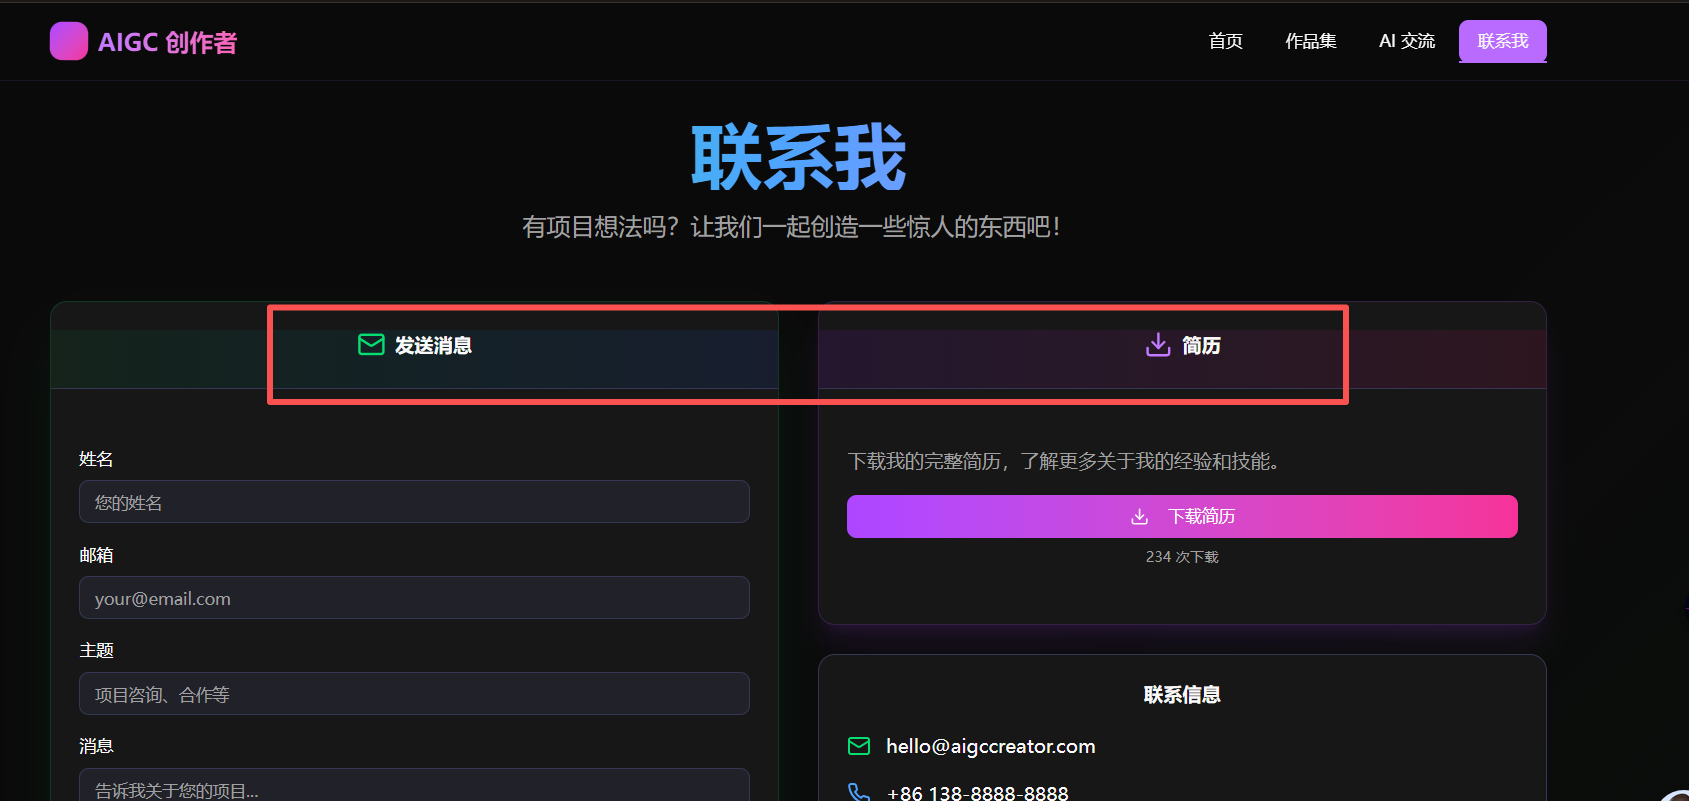
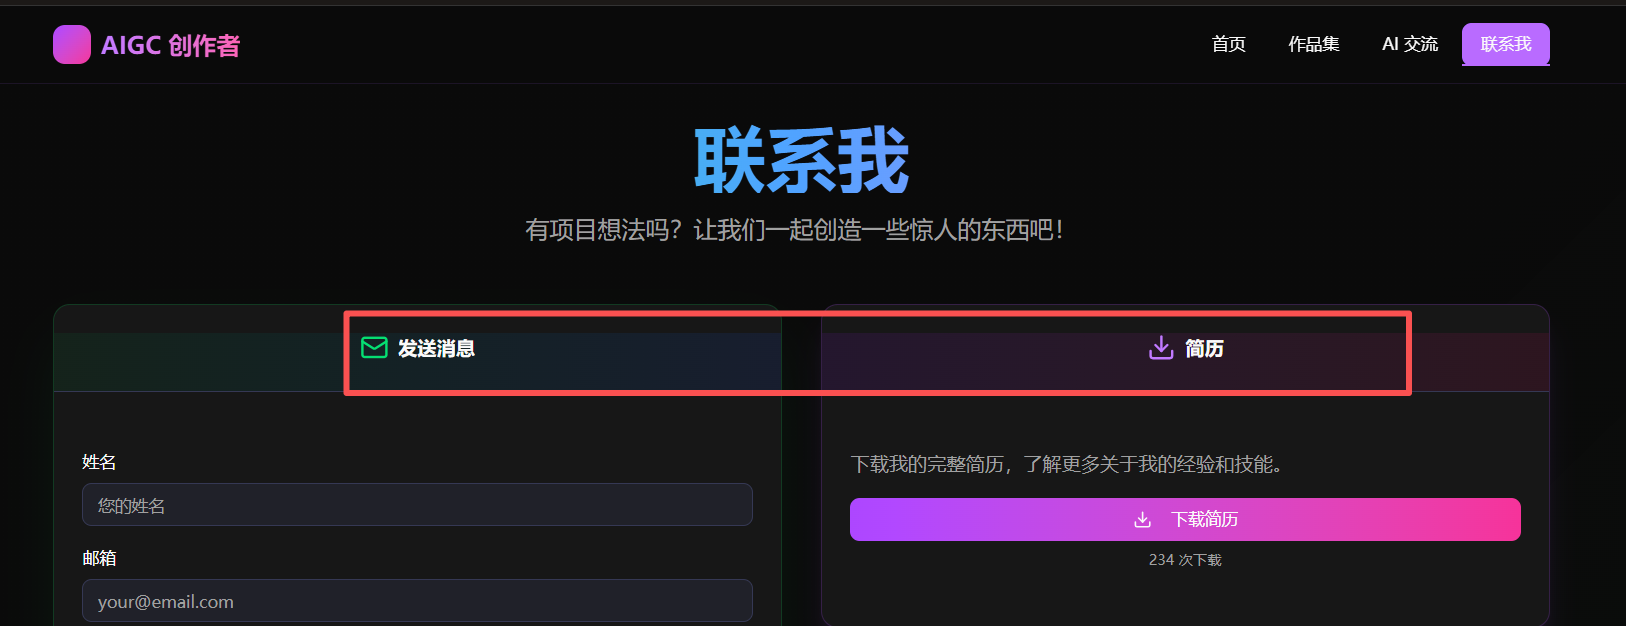
fix: 优化联系我页面所有小标题在底色框中完美居中

diff --git a/src/app/contact/page.tsx b/src/app/contact/page.tsx
@@ -85,7 +85,7 @@ export default function ContactPage() {
             transition={{ delay: 0.2 }}
           >
             <Card className="border-green-500/20 shadow-2xl shadow-green-500/10">
-              <CardHeader className="bg-gradient-to-r from-green-900/20 to-blue-900/20 border-b flex items-center justify-center">
+              <CardHeader className="bg-gradient-to-r from-green-900/20 to-blue-900/20 border-b !flex !flex-row !items-center !justify-center !min-h-[64px] !px-6">
                 <CardTitle className="flex items-center gap-2">
                   <Mail className="w-6 h-6 text-green-400" />
                   发送消息
@@ -152,7 +152,7 @@ export default function ContactPage() {
           >
             {/* Resume Download */}
             <Card className="border-purple-500/20 shadow-xl shadow-purple-500/10">
-              <CardHeader className="bg-gradient-to-r from-purple-900/20 to-pink-900/20 border-b flex items-center justify-center">
+              <CardHeader className="bg-gradient-to-r from-purple-900/20 to-pink-900/20 border-b !flex !flex-row !items-center !justify-center !min-h-[64px] !px-6">
                 <CardTitle className="flex items-center gap-2">
                   <Download className="w-6 h-6 text-purple-400" />
                   简历
@@ -177,7 +177,7 @@ export default function ContactPage() {
 
             {/* Contact Info */}
             <Card>
-              <CardHeader className="flex items-center justify-center">
+              <CardHeader className="!flex !flex-row !items-center !justify-center !min-h-[64px] !px-6">
                 <CardTitle>联系信息</CardTitle>
               </CardHeader>
               <CardContent className="space-y-4">
@@ -198,7 +198,7 @@ export default function ContactPage() {
 
             {/* Social Links */}
             <Card>
-              <CardHeader className="flex items-center justify-center">
+              <CardHeader className="!flex !flex-row !items-center !justify-center !min-h-[64px] !px-6">
                 <CardTitle>关注我</CardTitle>
               </CardHeader>
               <CardContent>
@@ -240,7 +240,7 @@ export default function ContactPage() {
           transition={{ delay: 0.4 }}
         >
           <Card className="border-blue-500/20 shadow-2xl shadow-blue-500/10">
-            <CardHeader className="bg-gradient-to-r from-blue-900/20 to-purple-900/20 border-b flex items-center justify-center">
+            <CardHeader className="bg-gradient-to-r from-blue-900/20 to-purple-900/20 border-b !flex !flex-row !items-center !justify-center !min-h-[64px] !px-6">
               <CardTitle className="flex items-center gap-2">
                 <MessageSquare className="w-6 h-6 text-blue-400" />
                 访客留言
